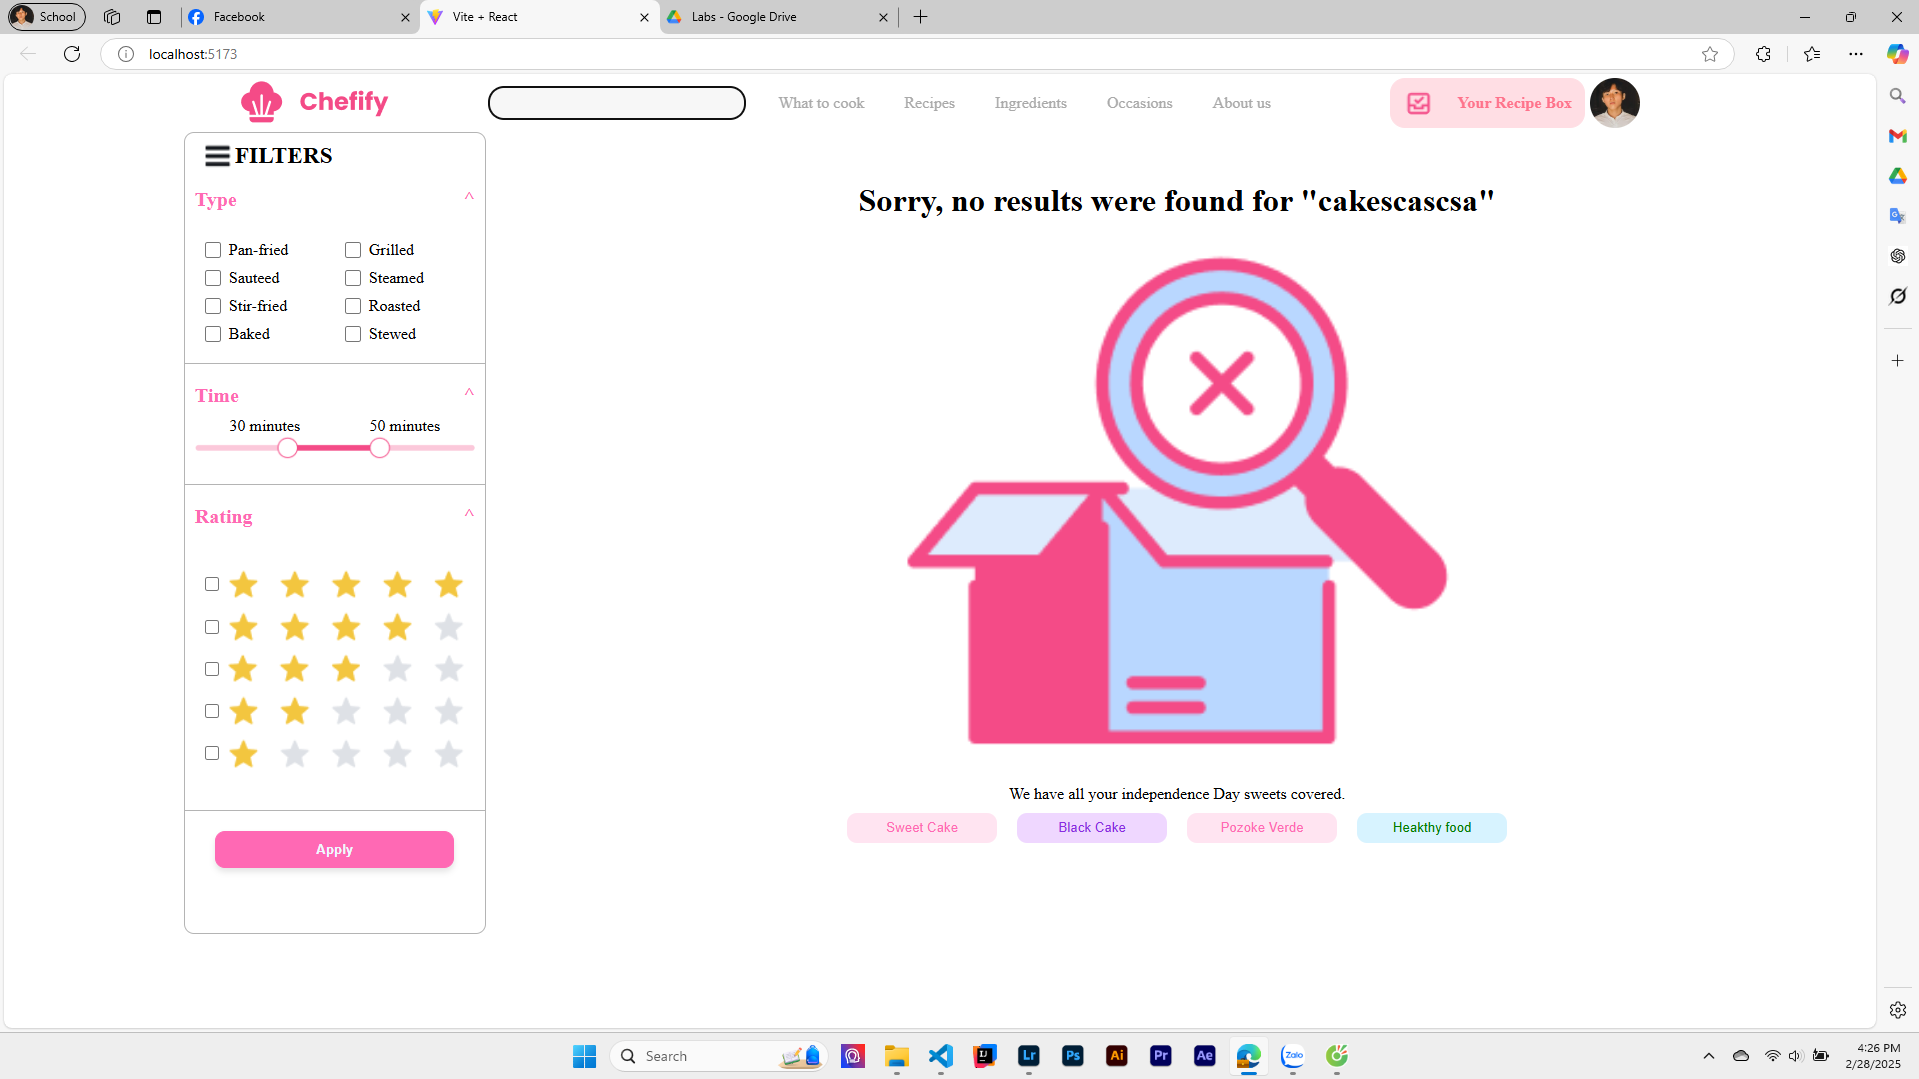
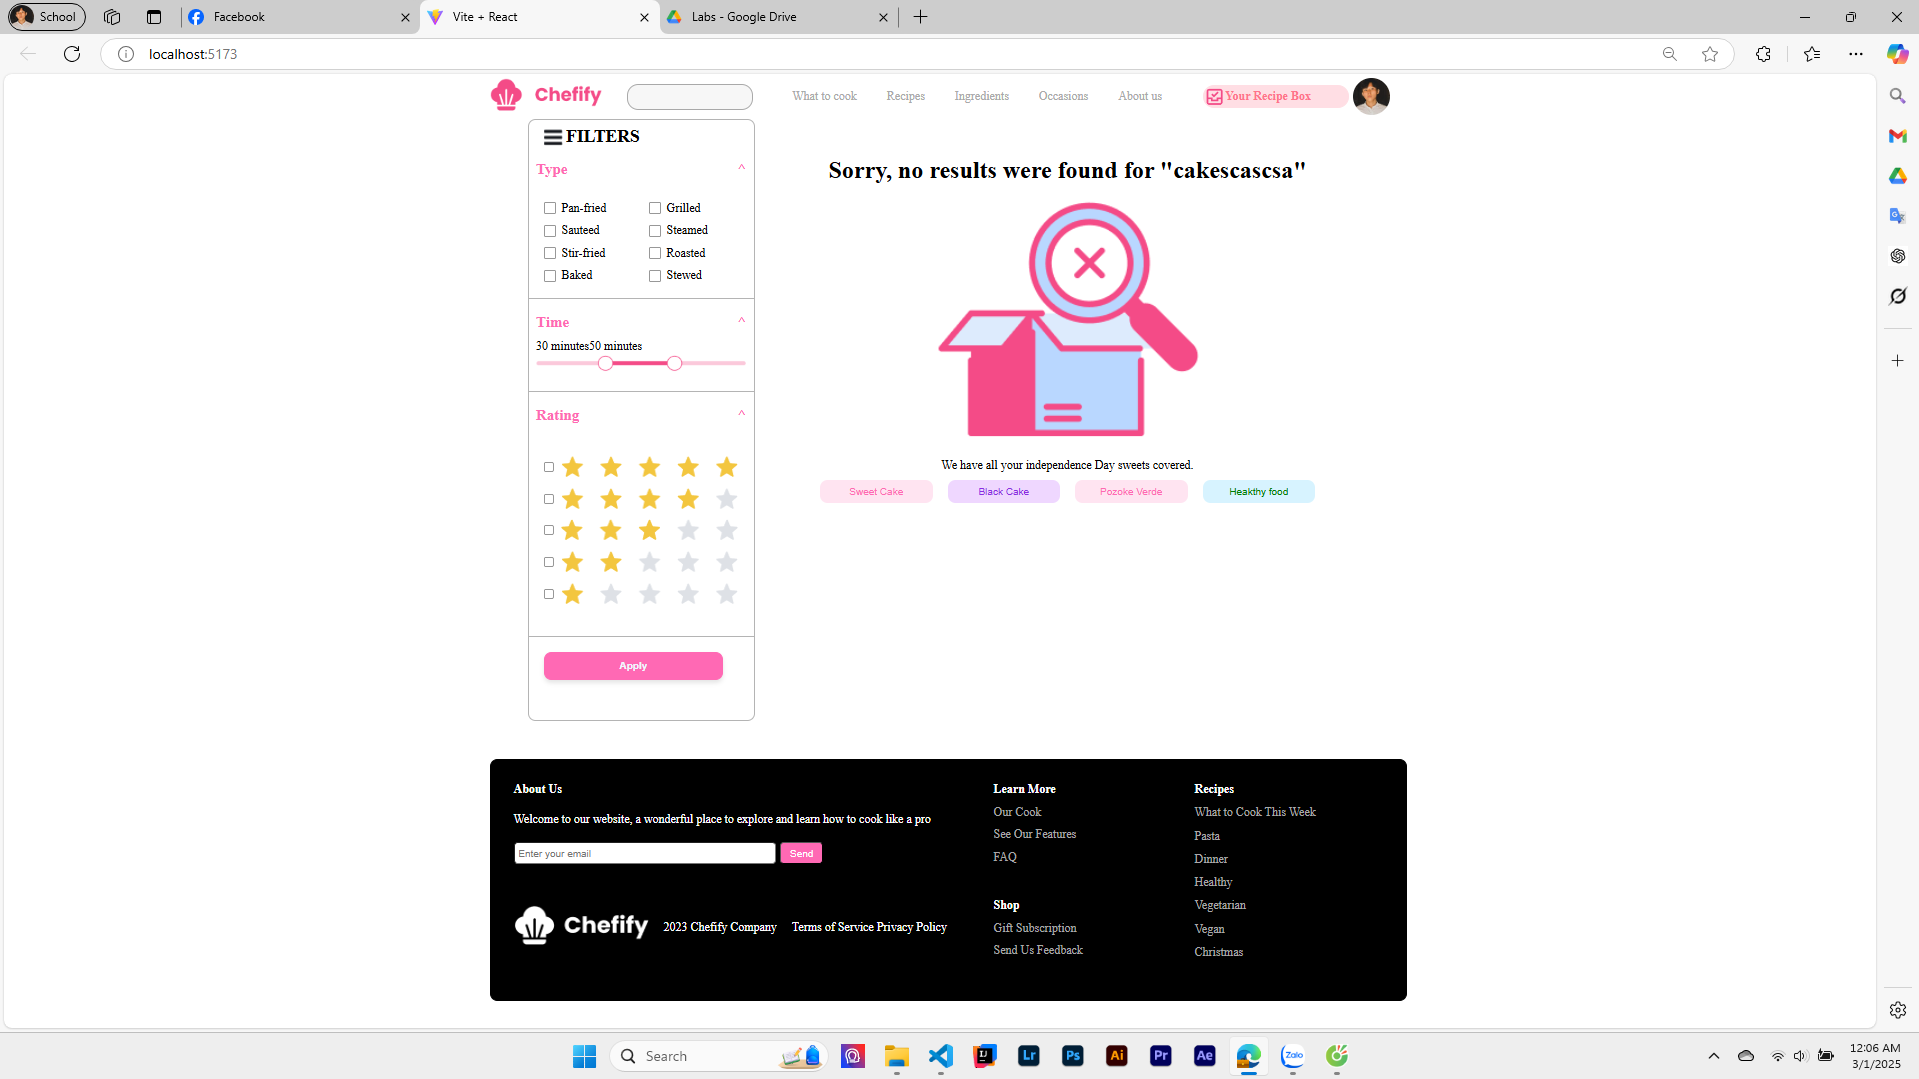
Update Footer| Done Bai01

diff --git a/Tuan_03_JS/Bai01/src/components/Footer.jsx b/Tuan_03_JS/Bai01/src/components/Footer.jsx
@@ -1,0 +1,42 @@
+import './Footer.css'
+import ChefifyWhite from '../images/chefifywhite.png'
+function Footer() {
+    return (
+        <div className="footer">
+            <div id="about-us">
+                <b id='footer-text'>About Us</b>
+                <p>Welcome to our website, a wonderful place to explore and learn how to cook like a pro</p>
+                <input id="input-email" type="text" placeholder="Enter your email" />
+                <button id="btn-send">Send</button>
+                <div id='chefifyWhite'>
+                    <img src={ChefifyWhite} alt="logo trắng" />
+                    <p>2023 Chefify Company</p>
+                    <p>Terms of Service Privacy Policy</p>
+                </div>
+            </div>
+            <div id="learnMore">
+                <b>Learn More</b>
+                <p><a href="#">Our Cook</a></p>
+                <p><a href="#">See Our Features</a></p>
+                <p><a href="#">FAQ</a></p>
+                <div id='shop'>
+                    <b>Shop</b>
+                    <p><a href="#">Gift Subscription</a></p>
+                    <p><a href="#">Send Us Feedback</a></p>
+                </div>
+            </div>
+            <div id="recipes">
+                <b>Recipes</b>
+                <p><a href="#">What to Cook This Week</a></p>
+                <p><a href="#">Pasta</a></p>
+                <p><a href="#">Dinner</a></p>
+                <p><a href="#">Healthy</a></p>
+                <p><a href="#">Vegetarian</a></p>
+                <p><a href="#">Vegan</a></p>
+                <p><a href="#">Christmas</a></p>
+            </div>
+        </div>
+    );
+}
+
+export default Footer;

diff --git a/Tuan_03_JS/Bai01/src/components/Header.jsx b/Tuan_03_JS/Bai01/src/components/Header.jsx
@@ -2,13 +2,13 @@ import './Header.css'
 import chefifyImage from '../images/chefify.png';
 import checkPhoto from '../images/check.png'
 function Header() {
-    return ( 
-        <>
-            <div id = 'header' className ="flex-container">
+    return (
+        <div className='header'>
+            <div id='header' className="flex-container">
                 <div><img src={chefifyImage} alt="logo" /></div>
                 <div>
-                    <input className='myinput'/>
-                   
+                    <input className='myinput' />
+
                 </div>
                 <div className='mynav'>
                     <nav>
@@ -21,17 +21,17 @@ function Header() {
                         </ul>
                     </nav>
                 </div>
-                
+
                 <div className='profile'>
-                <div className='photo'>
-                <img src={checkPhoto} alt="check" />
-                    <p> Your Recipe Box</p>
-                </div>
+                    <div className='photo'>
+                        <img src={checkPhoto} alt="check" />
+                        <p> Your Recipe Box</p>
+                    </div>
                     <img src="https://i.imgur.com/A1OshFQ.jpg" alt="" /></div>
 
             </div>
-        </>
-     );
+        </div>
+    );
 }
 
 export default Header;

diff --git a/Tuan_03_JS/Bai01/src/components/Footer.css b/Tuan_03_JS/Bai01/src/components/Footer.css
@@ -1,0 +1,73 @@
+.footer{
+    height: 300px;
+    padding: 10px;
+    background-color: black;
+    color: white;
+    border-radius: 10px;
+}
+#about-us{
+    width: 50%;
+    float: left;
+    padding: 20px;
+
+}
+#about-us p {
+    padding: 20px 0px;
+}
+#input-email{
+    padding: 1% 30%;
+    border-radius: 5px;
+    padding-left: 5px;
+}
+#btn-send{
+    padding: 1% 2%;
+    margin-left: 5px;
+    border-radius: 5px;
+    color: white;
+    background-color: #ff69b4;
+}
+#btn-send:hover{
+    cursor: pointer;
+}
+#chefifyWhite{
+    width: 100%;
+    height: 60px;
+    margin-top: 9%;
+}
+#chefifyWhite img{
+    width: 30%;
+    float: left;
+}
+#chefifyWhite p{
+    margin-left: 20px;
+    float: left;
+}
+#learnMore{
+    width: 19%;
+    float: left;
+    padding: 20px;
+}
+
+#learnMore p{
+    margin-top: 10px;
+}
+#learnMore p a{
+    text-decoration: none;
+    color: darkgray;
+}
+#shop{
+    margin-top: 45px;
+}
+#recipes{
+    width: 20%;
+    float: left;
+    padding: 20px;
+
+}
+#recipes p a{
+    text-decoration: none;
+    color: darkgray;
+}
+#recipes p {
+    margin-top: 11px;
+}

diff --git a/Tuan_03_JS/Bai01/src/App.css b/Tuan_03_JS/Bai01/src/App.css
@@ -1,10 +1,29 @@
+*{
+    padding: 0px;
+    margin: auto 0px;
+}
+.app-container{
+    width: 1200px;
+    margin: 0 auto; /* Căn giữa container trong trang */
+    
+}
+.header{
+    width: 100%;
+}
 .filter {
     width: 30%;
     height: auto;
     float: left;
     margin-left: 50px;
+    margin-bottom: 50px;
 }
 .center{
     float: left;
     width: 60%;
+}
+.footer{
+    width: 100%;
+    border: 1px solid black;
+    clear: both;
+    
 }

diff --git a/Tuan_03_JS/Bai01/src/App.jsx b/Tuan_03_JS/Bai01/src/App.jsx
@@ -1,14 +1,16 @@
 import Header from './components/header';
 import Filter from './components/filters';
 import Center from './components/center';
+import Footer from './components/Footer';
 import './App.css'
 
 function App() {
   return (
     <div className="app-container">
-      <Header />
+      <Header></Header>
       <Filter></Filter>
       <Center></Center>
+      <Footer></Footer>
     </div>
   );
 }

diff --git a/Tuan_03_JS/Bai01/src/components/Header.css b/Tuan_03_JS/Bai01/src/components/Header.css
@@ -3,7 +3,7 @@
     padding: 0px;
 }
 .flex-container{
-    width: 1500px;
+    width: 100%;
     display: flex;
     justify-content: space-between;
     align-items: center;
@@ -17,7 +17,7 @@ img {
     height: auto;
 }
 .myinput{
-    width: 150%;
+    width: 100%;
     height: 32px;
     border-radius: 15px;
     border: 1px solid darkgrey;

diff --git a/Tuan_03_JS/Bai01/src/components/Button.css b/Tuan_03_JS/Bai01/src/components/Button.css
@@ -5,3 +5,6 @@
     border-radius: 10px;   
     margin: 10px;
 }
+#Cus-Button:hover{
+    cursor: pointer;
+}
